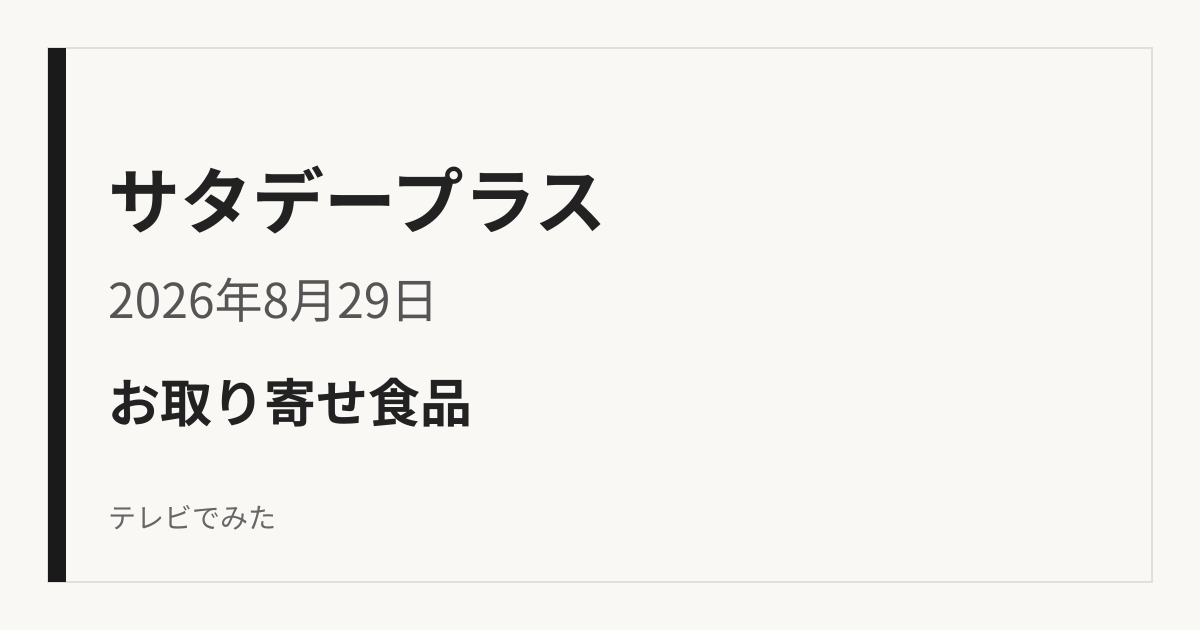
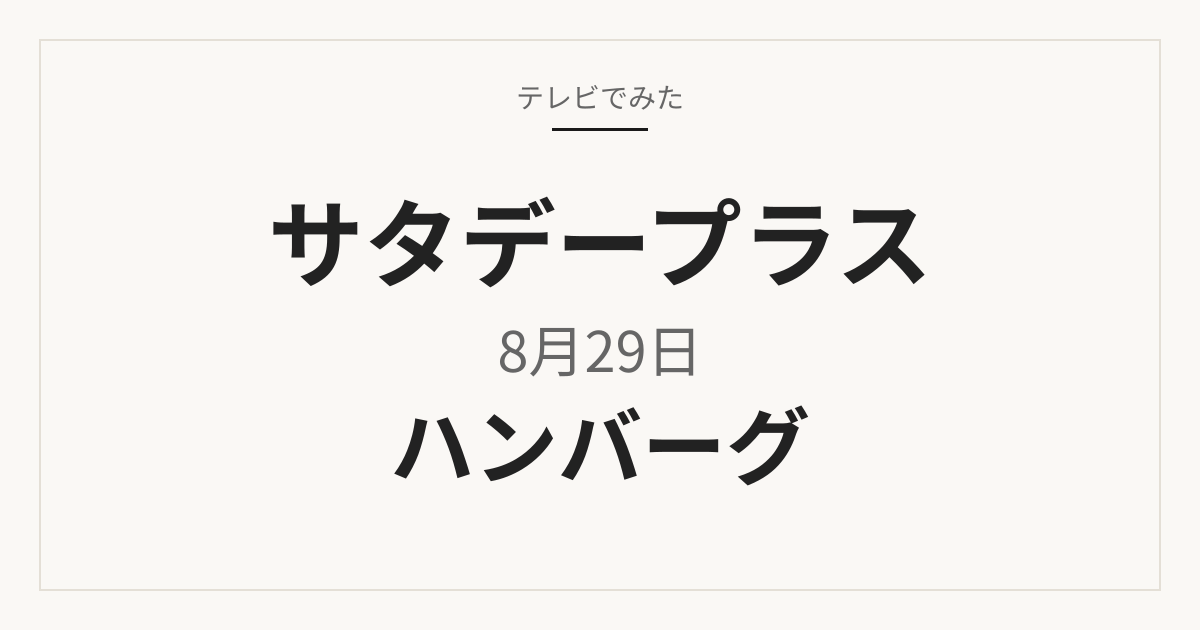
Lock hamburg OG thumb to Designer visual
Centered テレビでみた + サタデープラス / 8月29日 / ハンバーグ on paper
white. Same 1200×630 PNG for OGP, Twitter, and the date-index card.
Hamburg body, SKUs, and seria/brunch HTML unchanged.

diff --git a/site/2026-08-29/hamburg/index.html b/site/2026-08-29/hamburg/index.html
@@ -21,7 +21,7 @@
   <meta property="og:image" content="https://tv-mita.jp/og/2026-08-29-hamburg.png">
   <meta property="og:image:width" content="1200">
   <meta property="og:image:height" content="630">
-  <meta property="og:image:alt" content="サタデープラス 2026年8月29日 お取り寄せ食品">
+  <meta property="og:image:alt" content="サタデープラス 8月29日 ハンバーグ">
   <meta property="og:type" content="article">
   <meta name="twitter:card" content="summary_large_image">
   <meta name="twitter:image" content="https://tv-mita.jp/og/2026-08-29-hamburg.png">

diff --git a/site/2026-08-29/index.html b/site/2026-08-29/index.html
@@ -26,7 +26,7 @@
     <p class="lead">番組で紹介</p>
     <article class="item-card og-card">
       <a href="./hamburg/">
-        <img src="../og/2026-08-29-hamburg.png" width="1200" height="630" alt="サタデープラス 2026年8月29日 お取り寄せ食品">
+        <img src="../og/2026-08-29-hamburg.png" width="1200" height="630" alt="サタデープラス 8月29日 ハンバーグ">
         <h2>チーズハンバーグ</h2>
       </a>
     </article>

diff --git a/scripts/generate_og_thumb.py b/scripts/generate_og_thumb.py
@@ -1,12 +1,22 @@
 #!/usr/bin/env python3
 """Generate a 1200×630 original text/shape OG thumbnail (SVG + PNG).
 
+WEB Designer lock (hamburg pilot visual, reuse forever):
+  - Paper white background (#faf8f5)
+  - Text + simple geometric shapes only
+  - Small site name テレビでみた at the top
+  - Center, large, short three lines: 番組名 / 短い日付 / 短い主題
+    Example: サタデープラス / 8月29日 / ハンバーグ
+  - Not お取り寄せ食品, not SKU names, not ranking, not 予告
+  - No TV screenshots, program logos, manufacturer images, prices, or CTAs
+  - Same PNG is og:image, twitter:image, and the date-index card
+
 Usage (9/5 and later):
   python3 scripts/generate_og_thumb.py \\
     --slug 2026-09-05-example \\
     --program サタデープラス \\
-    --date 2026年9月5日 \\
-    --category 生活便利グッズ
+    --date 9月5日 \\
+    --topic ハンバーグ
 
 Writes site/og/<slug>.svg and site/og/<slug>.png.
 
@@ -14,10 +24,6 @@ Rasterizer: rsvg-convert (librsvg). Japanese glyphs come from Noto Sans CJK JP
 when installed (OFL, apt: fonts-noto-cjk), else Noto Sans JP / Hiragino Sans
 via fontconfig. The SVG itself names Hiragino Sans / Noto Sans JP so browsers
 match the live site stack. Do not invent English-only thumbs.
-
-Brand colors are locked to live site/styles.css until Designer revises:
-  bg #faf8f5, text #222, muted #555/#666, hairline #e4dfd6, CTA #1a1a1a.
-Wordmark is text only: テレビでみた.
 """
 
 from __future__ import annotations
@@ -35,6 +41,11 @@ DEFAULT_OUT_DIR = ROOT / "site" / "og"
 WIDTH = 1200
 HEIGHT = 630
 FONT_STACK = "Hiragino Sans, Noto Sans JP, Noto Sans CJK JP, sans-serif"
+BG = "#faf8f5"
+INK = "#222"
+MUTED = "#666"
+HAIRLINE = "#e4dfd6"
+RULE = "#1a1a1a"
 
 
 def png_dimensions(path: Path) -> tuple[int, int]:
@@ -50,19 +61,19 @@ def png_dimensions(path: Path) -> tuple[int, int]:
     return width, height
 
 
-def svg_markup(program: str, date: str, category: str) -> str:
+def svg_markup(program: str, date: str, topic: str) -> str:
     program_xml = escape(program)
     date_xml = escape(date)
-    category_xml = escape(category)
+    topic_xml = escape(topic)
     return f"""<?xml version="1.0" encoding="UTF-8"?>
 <svg xmlns="http://www.w3.org/2000/svg" width="{WIDTH}" height="{HEIGHT}" viewBox="0 0 {WIDTH} {HEIGHT}">
-  <rect width="{WIDTH}" height="{HEIGHT}" fill="#faf8f5"/>
-  <rect x="48" y="48" width="1104" height="534" fill="none" stroke="#e4dfd6" stroke-width="2"/>
-  <rect x="48" y="48" width="18" height="534" fill="#1a1a1a"/>
-  <text x="108" y="228" font-family="{FONT_STACK}" font-size="72" font-weight="700" fill="#222">{program_xml}</text>
-  <text x="108" y="318" font-family="{FONT_STACK}" font-size="48" font-weight="500" fill="#555">{date_xml}</text>
-  <text x="108" y="422" font-family="{FONT_STACK}" font-size="52" font-weight="700" fill="#222">{category_xml}</text>
-  <text x="108" y="528" font-family="{FONT_STACK}" font-size="28" font-weight="500" fill="#666">テレビでみた</text>
+  <rect width="{WIDTH}" height="{HEIGHT}" fill="{BG}"/>
+  <rect x="40" y="40" width="1120" height="550" fill="none" stroke="{HAIRLINE}" stroke-width="2"/>
+  <text x="600" y="108" text-anchor="middle" font-family="{FONT_STACK}" font-size="28" font-weight="500" fill="{MUTED}">テレビでみた</text>
+  <rect x="552" y="128" width="96" height="3" fill="{RULE}"/>
+  <text x="600" y="280" text-anchor="middle" font-family="{FONT_STACK}" font-size="96" font-weight="700" fill="{INK}">{program_xml}</text>
+  <text x="600" y="372" text-anchor="middle" font-family="{FONT_STACK}" font-size="56" font-weight="500" fill="{MUTED}">{date_xml}</text>
+  <text x="600" y="478" text-anchor="middle" font-family="{FONT_STACK}" font-size="84" font-weight="700" fill="{INK}">{topic_xml}</text>
 </svg>
 """
 
@@ -94,9 +105,13 @@ def rasterize(svg_path: Path, png_path: Path) -> None:
 def main() -> int:
     parser = argparse.ArgumentParser(description=__doc__)
     parser.add_argument("--slug", required=True, help="Output basename, e.g. 2026-08-29-hamburg")
-    parser.add_argument("--program", required=True, help="番組名")
-    parser.add_argument("--date", required=True, help="放送日, e.g. 2026年8月29日")
-    parser.add_argument("--category", required=True, help="商品カテゴリ")
+    parser.add_argument("--program", required=True, help="番組名, e.g. サタデープラス")
+    parser.add_argument("--date", required=True, help="短い放送日, e.g. 8月29日")
+    parser.add_argument(
+        "--topic",
+        required=True,
+        help="短い主題, e.g. ハンバーグ（カテゴリ名・SKU名・ランキング・予告は使わない）",
+    )
     parser.add_argument(
         "--out-dir",
         type=Path,
@@ -110,7 +125,7 @@ def main() -> int:
     svg_path = out_dir / f"{args.slug}.svg"
     png_path = out_dir / f"{args.slug}.png"
 
-    svg_path.write_text(svg_markup(args.program, args.date, args.category), encoding="utf-8")
+    svg_path.write_text(svg_markup(args.program, args.date, args.topic), encoding="utf-8")
     rasterize(svg_path, png_path)
 
     width, height = png_dimensions(png_path)

diff --git a/site/og/README.md b/site/og/README.md
@@ -2,9 +2,15 @@
 
 Original text/shape thumbnails for 速報 article OGP and list cards.
 
-- Same PNG is `og:image`, `twitter:image`, and the `.og-card` list image.
-- Brand wordmark is the text **テレビでみた** only (no program logo, TV screenshot, manufacturer photo, or licensed artwork).
-- Colors match live `styles.css`: bg `#faf8f5`, text `#222`, muted `#555`/`#666`, hairline `#e4dfd6`, CTA `#1a1a1a`.
+WEB Designer lock (hamburg pilot visual — reuse this template forever):
+
+- Same PNG is `og:image`, `twitter:image`, and the `.og-card` date-index card that links to the article.
+- Paper white `#faf8f5`. Text + simple geometric shapes only.
+- Small **テレビでみた** at the top. Center, large, short three lines: 番組名 / 短い日付 / 短い主題.
+  Hamburg: `サタデープラス` / `8月29日` / `ハンバーグ`.
+- Do not put お取り寄せ食品, product SKU names, ranking, 予告, prices, or buy CTAs on the thumb.
+- No program logo, TV screenshot, manufacturer photo, or licensed artwork.
+- SKU photos on the article stay Rakuten listing photos. OGP does not switch to those.
 
 ## Generate / regenerate
 
@@ -14,11 +20,11 @@ From the repo root:
 python3 scripts/generate_og_thumb.py \
   --slug 2026-08-29-hamburg \
   --program サタデープラス \
-  --date 2026年8月29日 \
-  --category お取り寄せ食品
+  --date 8月29日 \
+  --topic ハンバーグ
 ```
 
-For a later date (e.g. 9/5), change `--slug`, `--program`, `--date`, and `--category`. Do not publish a new product URL until the name is confirmed.
+For a later date (e.g. 9/5), change `--slug`, `--program`, `--date`, and `--topic`. Keep the third line short so it stays readable when the card is shrunk on a phone. Do not publish a new product URL until the name is confirmed.
 
 Needs `rsvg-convert` (`librsvg2-bin`) and a Japanese-capable font:
 
